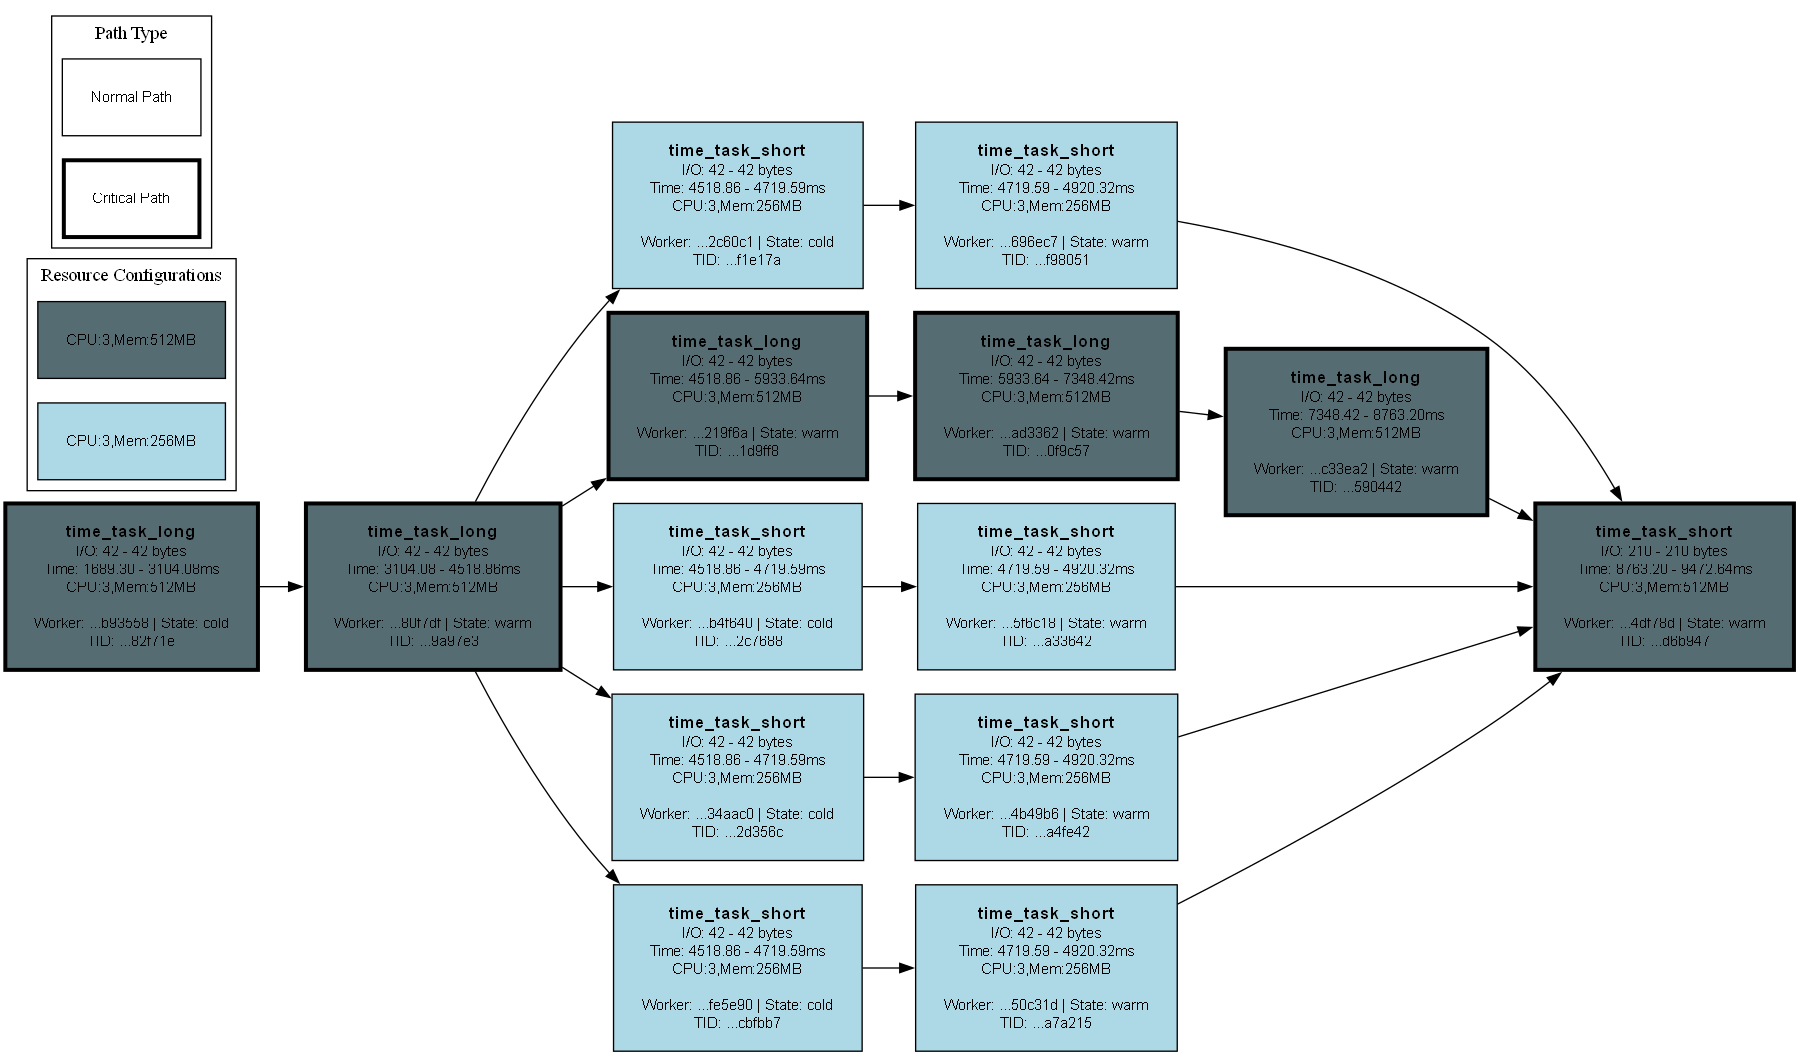
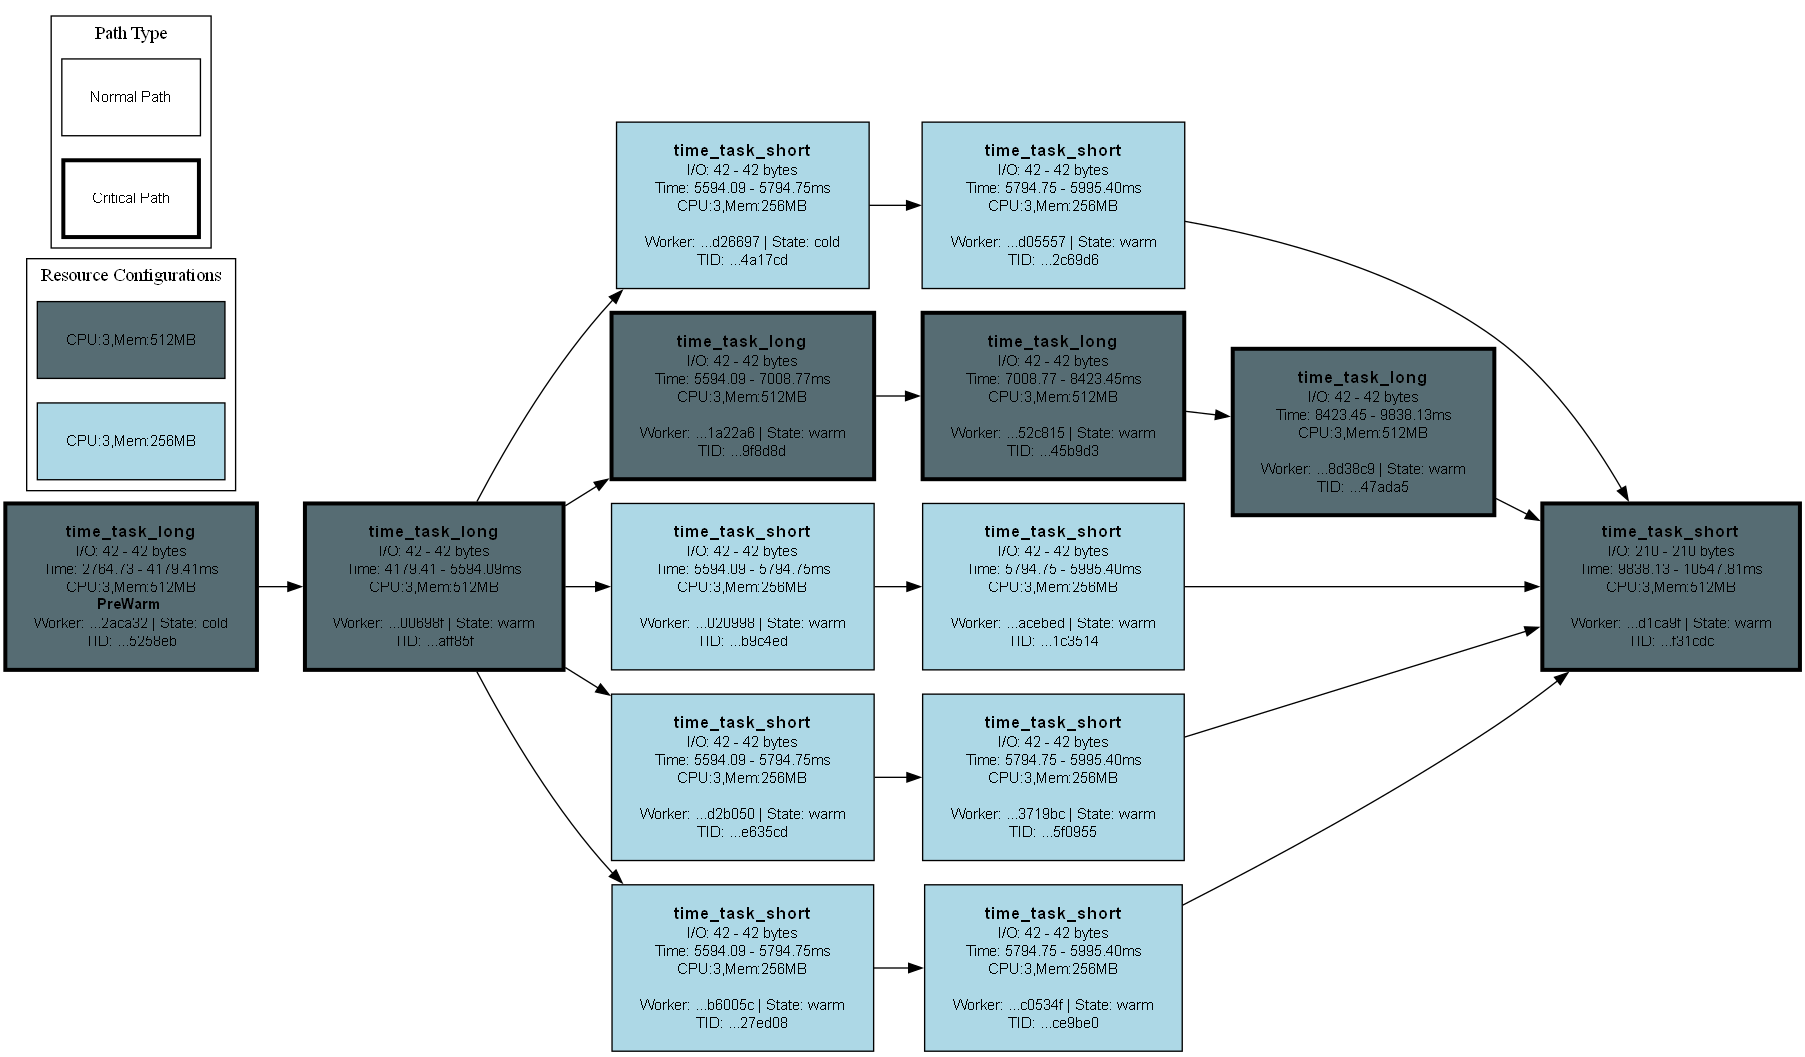
was able to force prewarm to be used. found bug in worker active times and worker startup time assignments (circular error)

diff --git a/src/planning/abstract_dag_planner.py b/src/planning/abstract_dag_planner.py
@@ -27,7 +27,7 @@ class AbstractDAGPlanner(ABC, WorkerExecutionLogic):
     """
 
     MAX_FAN_OUT_SIZE_W_SAME_WORKER = 4
-    TIME_UNTIL_WORKER_GOES_COLD_S = 1
+    TIME_UNTIL_WORKER_GOES_COLD_S = 2
 
     @dataclass
     class Config(ABC):
@@ -286,11 +286,11 @@ class AbstractDAGPlanner(ABC, WorkerExecutionLogic):
             # register when the worker config I PRE-WARM should be active
             prewarm_optimization = node.try_get_annotation(PreWarmOptimization)
             if prewarm_optimization:
-                time_at_which_worker_will_be_ready = my_node_info.earliest_start_ms + predictions_provider.predict_worker_startup_time(my_resource_config, 'cold', sla)
+                time_at_which_worker_will_be_ready_ms = my_node_info.earliest_start_ms + predictions_provider.predict_worker_startup_time(my_resource_config, 'cold', sla)
                 worker_active_periods[(prewarm_optimization.target_resource_config.cpus, prewarm_optimization.target_resource_config.memory_mb)].append((
                     prewarm_optimization.target_resource_config.worker_id,
-                    time_at_which_worker_will_be_ready,
-                    time_at_which_worker_will_be_ready + AbstractDAGPlanner.TIME_UNTIL_WORKER_GOES_COLD_S * 1_000
+                    time_at_which_worker_will_be_ready_ms,
+                    time_at_which_worker_will_be_ready_ms + AbstractDAGPlanner.TIME_UNTIL_WORKER_GOES_COLD_S * 1_000
                 ))
 
         def _is_worker_warm_at_time(my_worker_id: str | None, worker_config: tuple[float, int], target_time_ms: float) -> bool:
@@ -321,6 +321,7 @@ class AbstractDAGPlanner(ABC, WorkerExecutionLogic):
                 my_node_info.task_completion_time_ms += 0
                 continue
 
+            print("Node Id: ", node.id.get_full_id(), "EST", my_node_info.earliest_start_ms, "Is worker warm?:", _is_worker_warm_at_time(my_resource_config.worker_id, (my_resource_config.cpus, my_resource_config.memory_mb), my_node_info.earliest_start_ms))
             if _is_worker_warm_at_time(my_resource_config.worker_id, (my_resource_config.cpus, my_resource_config.memory_mb), my_node_info.earliest_start_ms):
                 # WARM START
                 worker_startup_prediction = predictions_provider.predict_worker_startup_time(my_resource_config, "warm", sla)

diff --git a/src/planning/second_planner_algorithm.py b/src/planning/second_planner_algorithm.py
@@ -279,17 +279,17 @@ class SecondPlannerAlgorithm(AbstractDAGPlanner):
             # Find the best node to add pre-warm annotation to
             best_node = None
             best_start_time = -1
-            TIME_MARGIN_MS = 1_500 # upper bound (if goes above, it is too close that it wouldn't make sense to pre-warm)
+            time_until_worker_goes_cold_ms = AbstractDAGPlanner.TIME_UNTIL_WORKER_GOES_COLD_S * 1000
             
             for other_node_id, other_node_info in updated_nodes_info.items():
                 if other_node_id == my_node_id: continue
                 
                 # time at which the worker config I need would be available if I were to add pre-warm annotation to this node
-                my_potential_start_if_prewarmed = other_node_info.earliest_start_ms + node_info.tp_worker_startup_time_ms
-                min_prewarm_time = max(0, node_info.earliest_start_ms - AbstractDAGPlanner.TIME_UNTIL_WORKER_GOES_COLD_S)
-                max_prewarm_time = max(0, node_info.earliest_start_ms - TIME_MARGIN_MS)
-                is_in_optimal_prewarm_window = min_prewarm_time < my_potential_start_if_prewarmed < max_prewarm_time
-                print("Node Id: ", other_node_id, "Window: ", min_prewarm_time, "to", max_prewarm_time, "Potential start: ", my_potential_start_if_prewarmed)
+                my_worker_potential_ready_if_prewarmed = other_node_info.earliest_start_ms + node_info.tp_worker_startup_time_ms
+                # avoid the worker being ready but cold by the time we need it
+                min_prewarm_time = max(0, node_info.earliest_start_ms - time_until_worker_goes_cold_ms + time_until_worker_goes_cold_ms / 3)
+                max_prewarm_time = max(0, node_info.earliest_start_ms)
+                is_in_optimal_prewarm_window = min_prewarm_time < my_worker_potential_ready_if_prewarmed < max_prewarm_time
                 
                 if is_in_optimal_prewarm_window and (best_node is None or other_node_info.earliest_start_ms > best_start_time):
                     best_node = other_node_info.node_ref

diff --git a/_examples/original/_run_experiments.py b/_examples/original/_run_experiments.py
@@ -15,7 +15,7 @@ WORKFLOWS_PATHS = [
 ITERATIONS = 3
 ALGORITHMS = ['simple', 'first', 'second']
 
-TIME_UNTIL_WORKER_GOES_COLD_S = 1
+TIME_UNTIL_WORKER_GOES_COLD_S = 2
 
 def run_experiment(script_path: str, algorithm: str, iteration: str) -> None:
     """Run the specified Python script with the given algorithm parameter."""

diff --git a/src/docker_workers_gateway/container_pool_executor.py b/src/docker_workers_gateway/container_pool_executor.py
@@ -12,7 +12,7 @@ from src.utils.logger import create_logger
 logger = create_logger(__name__)
 
 ALLOW_CONTAINER_REUSAGE = True
-TIME_UNTIL_WORKER_GOES_COLD_S = 1
+TIME_UNTIL_WORKER_GOES_COLD_S = 2
 
 @dataclass
 class Container:

diff --git a/TODO.md b/TODO.md
@@ -3,6 +3,7 @@
         - need to make the "before-big-fanout-task" take longer so that other worker configs become cold
             need to force the new tasks to be on another worker (rely on the downgrade optimization)
                 [BUG] the downgrade optimization is not downgrading on the fan-out for tasks outside the CP
+                [BUG] in the prewarm time table: earliest starts need to include worker startup time, but we need earliest start to know worker activity times
 
 [TODO] TASKDUP
     - make the planners assign this annotation (see criterion below)
